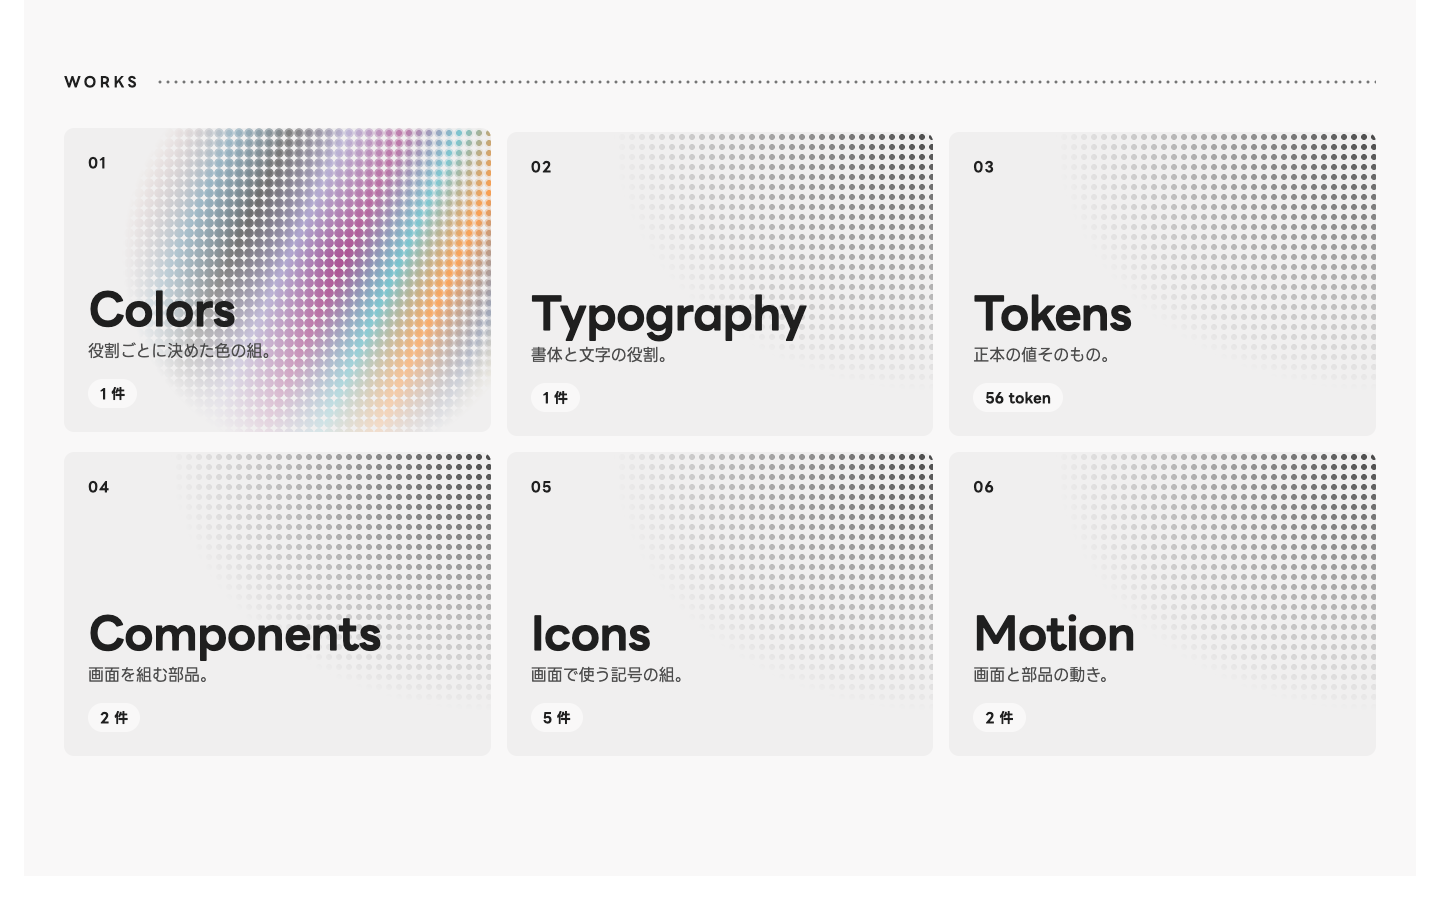
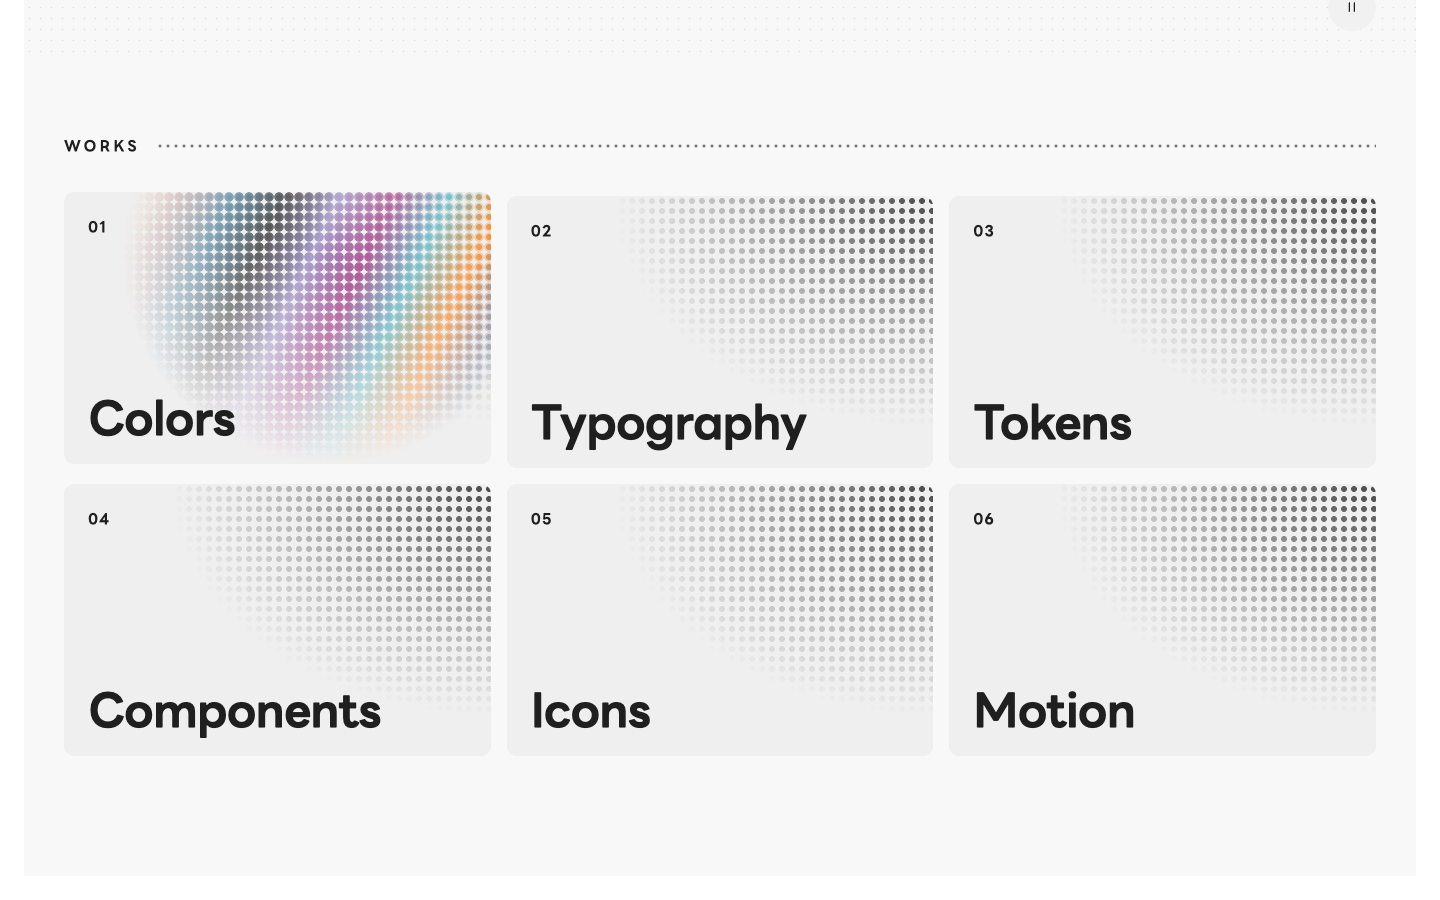
feat: dot-field の区切りの点、題の下の一文、tile の説明文と件数を外す ✨
利用者が dot-field を良さそうと判断し、題の上の語を記号で区切らないこと、
題の下の一文と tile の説明文と件数を要らないとした。tile は名前と番号だけにした。

diff --git a/experiments/catalog-home-graphic/variants/dot-field/variant.css b/experiments/catalog-home-graphic/variants/dot-field/variant.css
@@ -46,9 +46,10 @@
   pointer-events: none;
 }
 
+/* 語は字間と余白だけで分け、記号で区切らない（利用者の 2026-09-28 の指示）。 */
 .df .df-eyebrow {
   display: flex;
-  gap: var(--space-300);
+  gap: var(--space-600);
   color: var(--hg-muted);
   font-size: var(--font-size-sm);
   font-weight: 700;
@@ -66,17 +67,6 @@
 
 .df .df-eyebrow > span:nth-child(3) {
   --n: 2;
-}
-
-.df .df-eyebrow > span + span::before {
-  display: inline-block;
-  inline-size: 0.4em;
-  block-size: 0.4em;
-  margin-inline-end: var(--space-300);
-  border-radius: var(--radius-full);
-  background: var(--hg-dot);
-  vertical-align: 0.15em;
-  content: "";
 }
 
 .df .df-title {
@@ -135,14 +125,6 @@
   }
 }
 
-.df .df-tagline {
-  color: var(--hg-muted);
-  font-size: clamp(1rem, 1.5vw, 1.25rem);
-  font-weight: 700;
-  line-height: 1.6;
-  animation: df-focus 900ms 2000ms var(--easing-entrance) backwards;
-}
-
 @keyframes df-rise {
   from {
     opacity: 0;
@@ -183,7 +165,8 @@
 .df .df-works__rule {
   flex: 1;
   block-size: 6px;
-  background: radial-gradient(circle, var(--hg-line-strong) 1.2px, transparent 1.8px) 0 50% / 8px 6px repeat-x;
+  background: radial-gradient(circle, var(--hg-line-strong) 1.2px, transparent 1.8px) 0 50% / 8px
+    6px repeat-x;
 }
 
 .df .df-grid {
@@ -221,9 +204,9 @@
 .df .df-tile__link {
   position: relative;
   display: grid;
-  grid-template-rows: auto 1fr auto;
+  grid-template-rows: auto 1fr;
   gap: var(--space-400);
-  min-block-size: 19rem;
+  min-block-size: 17rem;
   padding: var(--space-600);
   overflow: hidden;
   border-radius: var(--radius-surface);
@@ -289,30 +272,12 @@
   letter-spacing: 0.08em;
 }
 
-.df .df-tile__body {
-  display: grid;
-  align-content: end;
-  gap: var(--space-200);
-}
-
 .df .df-tile__label {
+  align-self: end;
   font-size: clamp(2rem, 3.4vw, 2.75rem);
   font-weight: 700;
   line-height: 1.05;
   letter-spacing: -0.02em;
-}
-
-.df .df-tile__lead {
-  color: var(--hg-muted);
-}
-
-.df .df-tile__count {
-  justify-self: start;
-  padding: var(--space-100) var(--space-300);
-  border-radius: var(--radius-full);
-  background: var(--hg-bg);
-  font-size: var(--font-size-sm);
-  font-weight: 700;
 }
 
 @media (hover: hover) and (pointer: fine) {

diff --git a/experiments/catalog-home-graphic/variants/dot-field/index.tsx b/experiments/catalog-home-graphic/variants/dot-field/index.tsx
@@ -169,11 +169,7 @@ function Tile({ topic, index }: { topic: HomeTopic; index: number }) {
         <span className="df-tile__num" aria-hidden="true">
           {String(index + 1).padStart(2, "0")}
         </span>
-        <span className="df-tile__body">
-          <span className="df-tile__label">{topic.label}</span>
-          <span className="df-tile__lead">{topic.lead}</span>
-        </span>
-        <span className="df-tile__count">{topic.count}</span>
+        <span className="df-tile__label">{topic.label}</span>
       </a>
     </li>
   );
@@ -201,7 +197,6 @@ export default function Variant() {
             <Lockup className="df-lockup" />
             <span className="hg-label">UI/UX NUMA</span>
           </h1>
-          <p className="df-tagline">UI/UX とプロダクト体験を、AI エージェントと探索する。</p>
         </div>
         {!reduce && (
           <PauseButton
